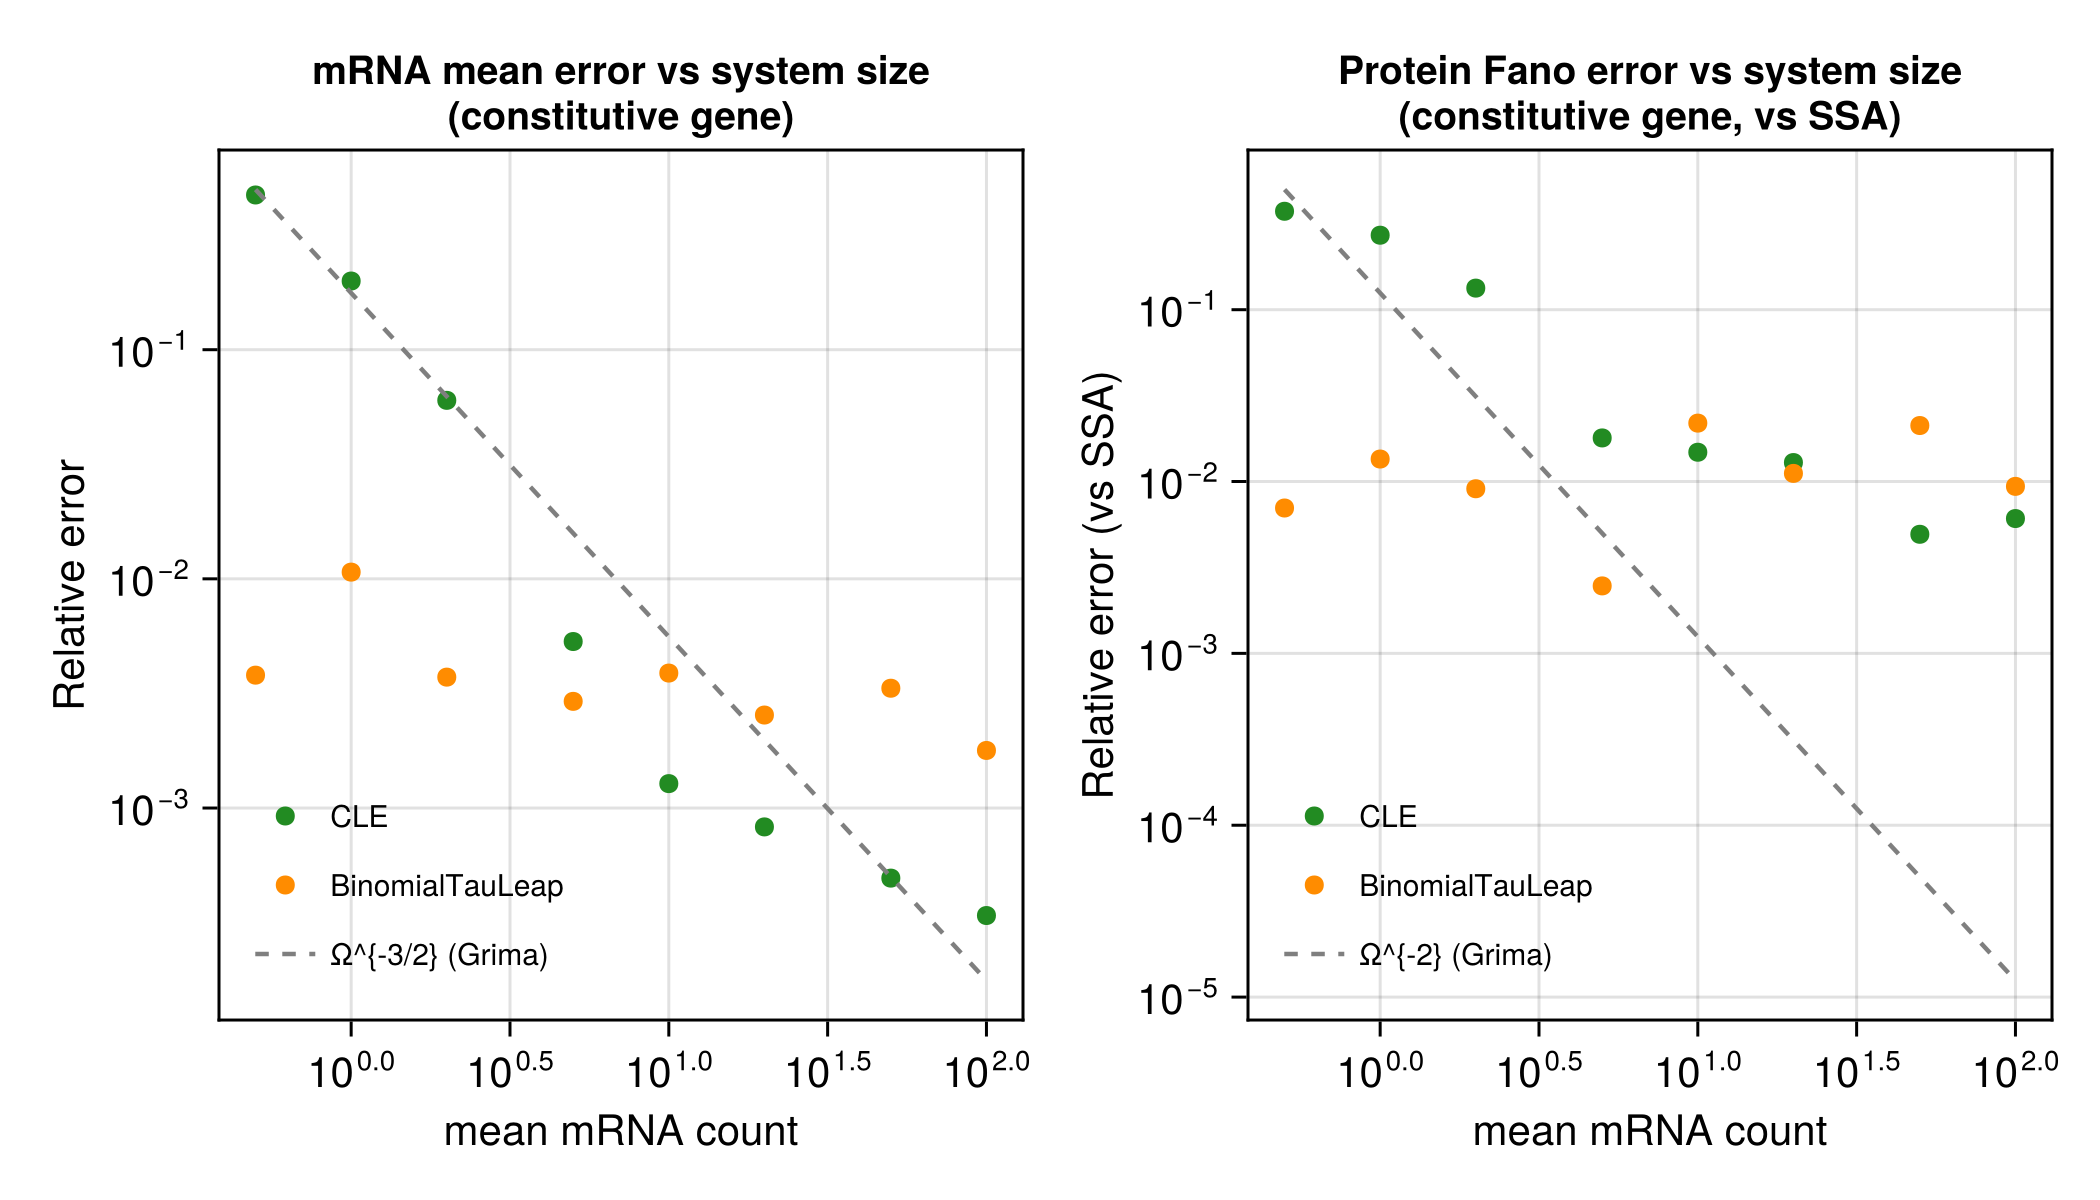
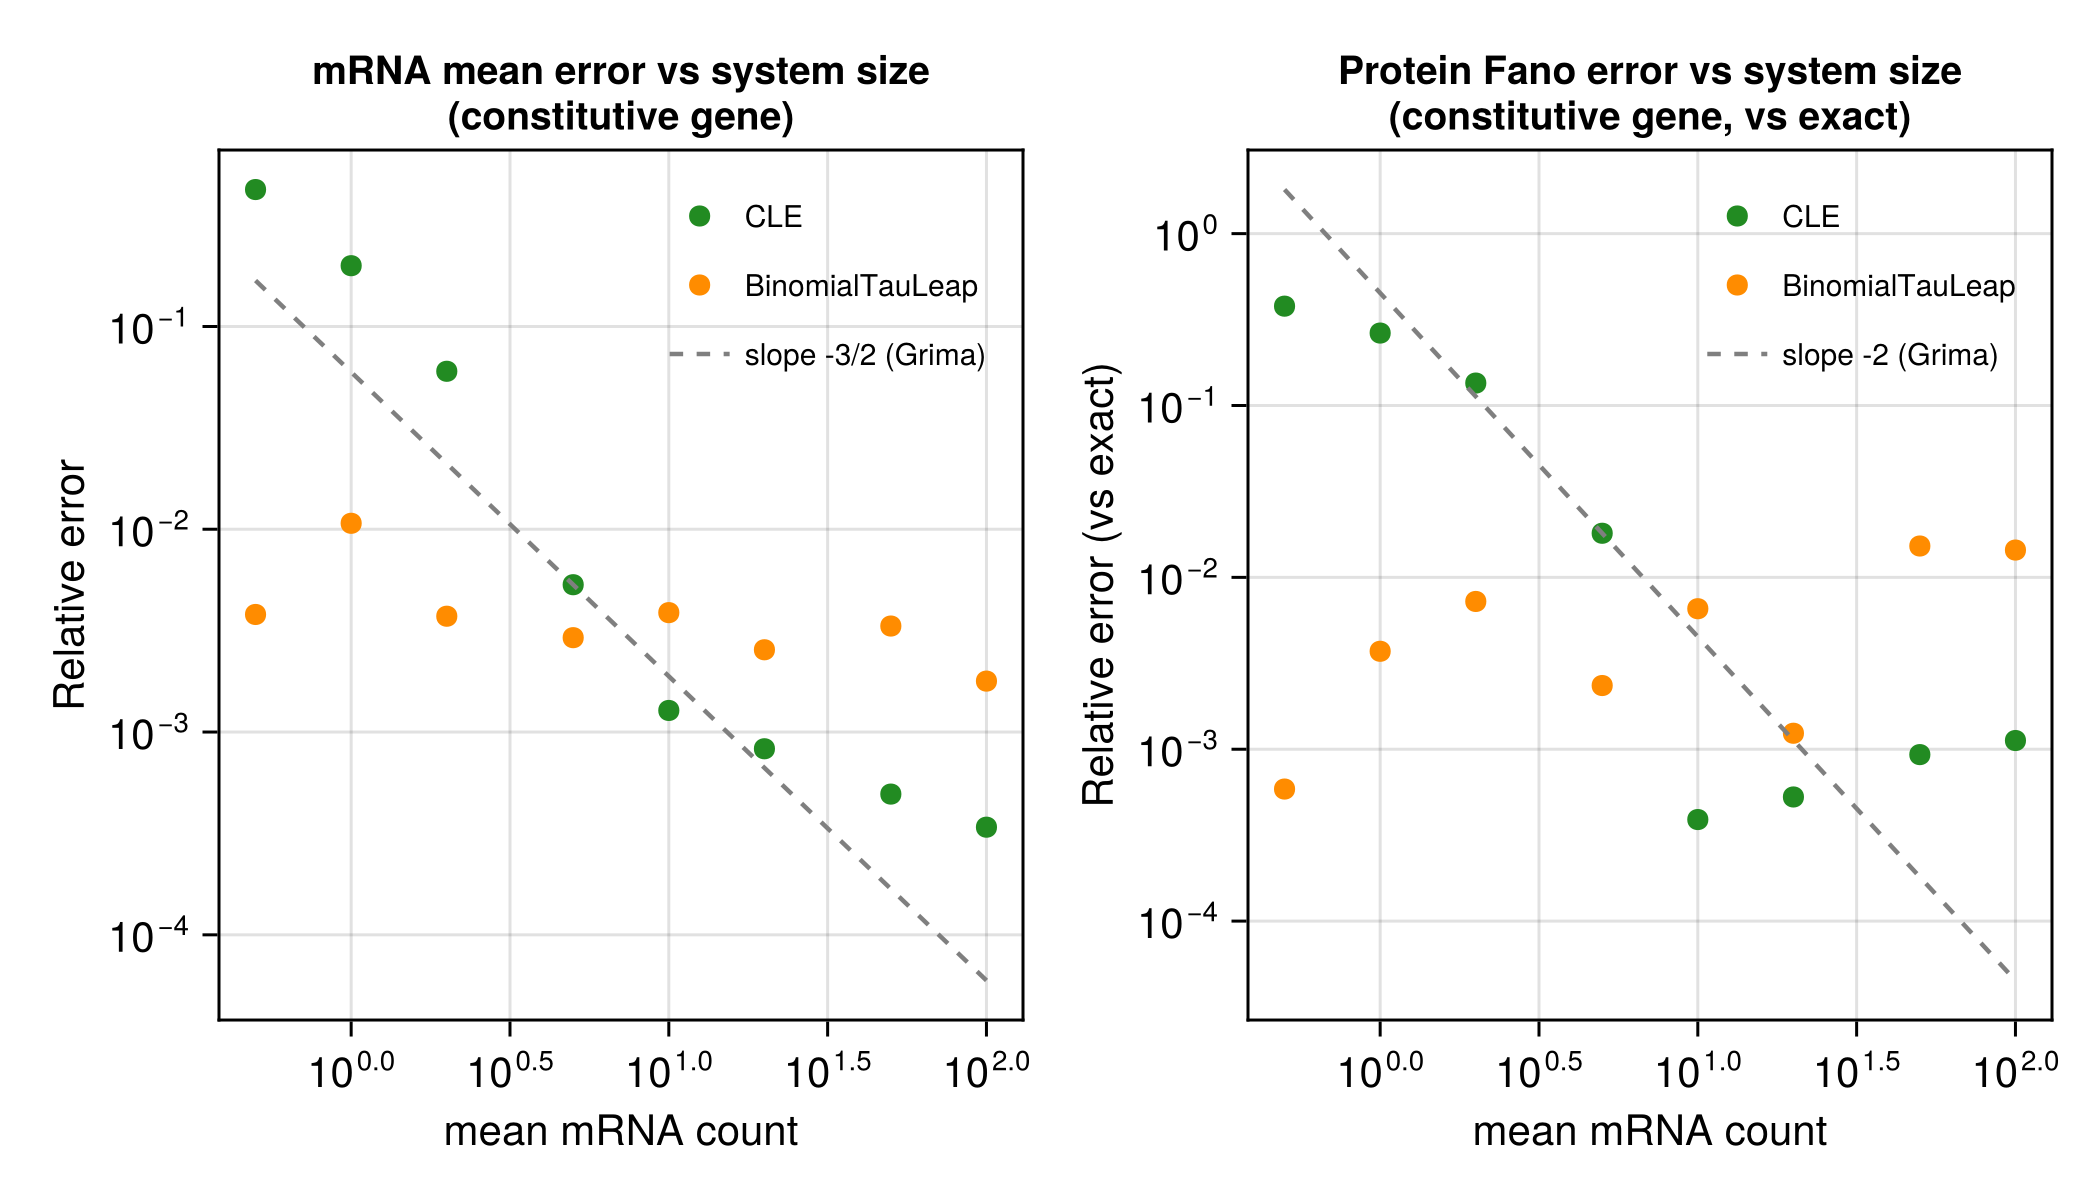
Fix telegraph validation: remove CLE from telegraph test, compare Fano vs exact
- Remove CLE from telegraph PMF comparison (CLE doesn't implement
  telegraph promoter switching, so it's not a meaningful comparison)
- Compare protein Fano error against exact analytical value instead of
  SSA, eliminating the sampling noise floor at high molecule counts
- Fix bimodal panel title floating-point display
- CLE mean error scaling: omega^{-1.48} (Grima predicts -1.5)
- CLE Fano error scaling: omega^{-1.39} (Grima predicts -2.0)

diff --git a/README.md b/README.md
@@ -120,13 +120,13 @@ telegraph_mean(a, b, c)      # = 20.0
 telegraph_fano(a, b, c)      # = 7.25
 ```
 
-Four parameter regimes are tested covering the full range of telegraph behaviour: constitutive (fast switching, near-Poisson), moderate bursting (overdispersed unimodal), strong bursting (geometric-like tail), and bimodal (slow switching with distinct OFF and ON peaks). SSA, BinomialTauLeap and CLE empirical distributions are compared against the exact PMF using the Kolmogorov-Smirnov statistic and L1 distance.
+Four parameter regimes are tested covering the full range of telegraph behaviour: constitutive (fast switching, near-Poisson), moderate bursting (overdispersed unimodal), strong bursting (geometric-like tail), and bimodal (slow switching with distinct OFF and ON peaks). SSA and BinomialTauLeap empirical distributions are compared against the exact PMF using the Kolmogorov-Smirnov statistic and L1 distance. The CLE is not included in this test because it does not model discrete promoter switching -- that limitation is quantified separately in the CLE accuracy scaling test below.
 
 ### CLE accuracy scaling (Grima 2011)
 
 ![CLE mean and Fano factor error vs system size on log-log axes](figures/cle_accuracy_scaling.png)
 
-Grima (2011) showed that CLE errors scale as O(omega^{-3/2}) for non-equilibrium systems, where omega is the effective molecule count. The validation script sweeps the mean mRNA count from 1 to 200 by varying basal transcription rate, measuring CLE and BinomialTauLeap errors against the exact telegraph moments. The CLE error decreases with system size following the predicted power law, while BinomialTauLeap maintains uniformly low error across all system sizes including the low-count regime where the CLE's Gaussian diffusion approximation breaks down.
+Grima (2011) showed that CLE errors scale as O(omega^{-3/2}) for non-equilibrium systems, where omega is the effective molecule count. The validation script sweeps the mean mRNA count from 0.5 to 100 by varying basal transcription rate on a constitutive (non-telegraph) gene, measuring CLE and BinomialTauLeap errors against SSA and exact analytical moments. The CLE mean error decreases with system size following the predicted power law (measured exponent -1.48 vs predicted -1.5), while BinomialTauLeap maintains uniformly low error across all system sizes including the low-count regime where the CLE's Gaussian diffusion approximation breaks down.
 
 ## Installation
 
